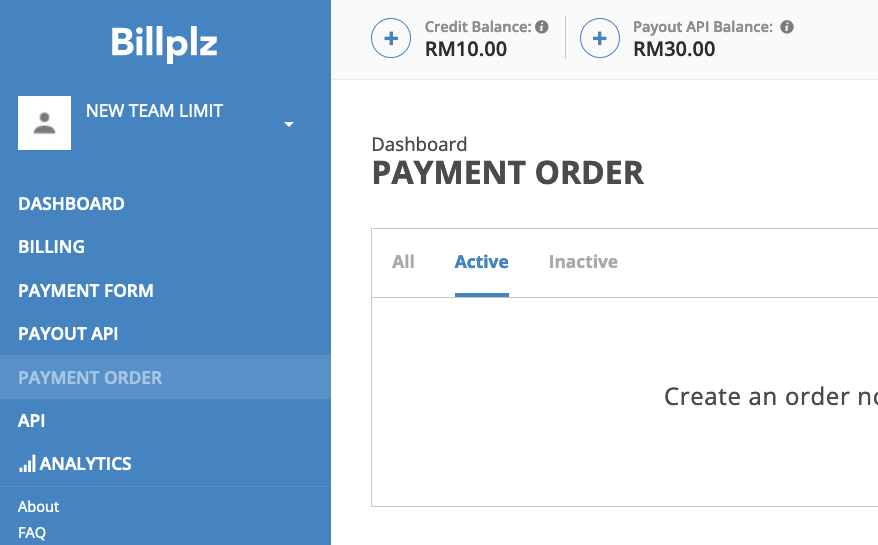
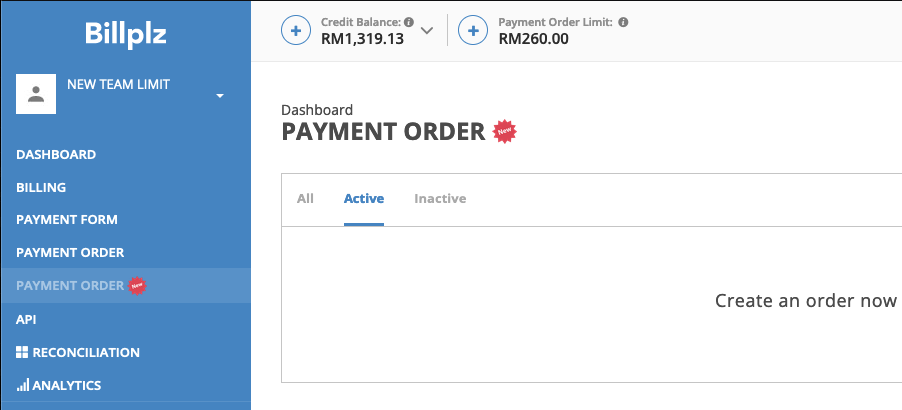
change to PO limit img and remove payout xsignature doc

diff --git a/source/index.html.md b/source/index.html.md
@@ -3493,210 +3493,6 @@ To verify that the request came from Billplz, compute the HMAC-SHA256 digest acc
 
 If they match, you can be sure that the redirection was sent from Billplz and the data has not been compromised, and you **do not need to trigger additional Get a Bill API for primary status validation**.
 
-## X Signature Payout API
-
-<aside class="warning">
-  Payout API is being sunsetted and will be discontinued on 10/05/2023, please configure your application to integrate with our Payment Order API instead <a href="#v5-payment-order-flow">[Payment Order]</a>
-</aside>
-
-X Signature Payout API allows your system to be notified in the event of the payout status change. This will ensure that your system can be hooked to perform an action in the event of payout status. The callback notification will be send when the status changed to `completed` or `refunded`.
-
-You are required to have this feature set-up if your system require an update on the payout status as <a href="#v4-payout-api-get-a-payout-api">Get a Payout API</a> is rate-limited.
-
-###### SERVER SIDE REQUEST
-
-If `callback_url` exists, Billplz will make a POST request with Payout object upon status change (`completed` or `refunded`).
-
-X Signature Callback URL request created through the API by Billplz can be verified by calculating a digital signature - `x_signature`.
-
-Each callback request includes a x_signature which is generated using HMAC-SHA256 algorithm and shared XSignature Key, along with the data sent in the request.
-
-To verify that the request came from Billplz, compute the HMAC-SHA256 digest according to the X Signature section and compare it to the value in the x_signature parameter. If they match, you can be sure that the callback was sent from Billplz and the data has not been compromised.
-
-A bill that catched payment failure will be in due state.
-
-<aside class="success">
-  By default, X Signature Callback URL feature is activated for account registered starting September 2018.
-</aside>
-
-> Example Server Side Request from Billplz:
-
-```
-POST /webhook/ HTTP/1.1
-Connection: close
-Host: 127.0.0.1
-Content-Length: 346
-Content-Type: application/x-www-form-urlencoded
-
-  id="bdejmycg"
-  &mass_payment_instruction_collection_id="bbk2nh77"
-  &bank_code="CIBBMYKL"
-  &bank_account_number="9230248"
-  &identity_number="PC0011H"
-  &name="Michae Yap"
-  &description="Maecenas eu placerat ante."
-  &email="api@billplz.com"
-  &status="completed"
-  &notification="false"
-  &recipient_notification="true"
-  &reference_id=""
-  &total="1"
-  &paid_at="02/08/2021"
[1 lines of base64/hex data omitted]
-```
-
-> Body formatted for readability.
-
-###### HTTP REQUEST
-
-`POST {CALLBACK_URL}`
-
-###### POST PARAMETER
-
-| Parameter | Description |
-| --- | --- |
-| id | ID that represents payout. |
-| mass_payment_instruction_collection_id | The Payout API collection's title in string format. |
-| bank_code | Bank Code that represents bank, in string value. |
-| bank_account_number | Bank account number, in string value. |
-| identity_number | Bank account's IC Number/SSM Registration Number, in string value. |
-| name | Payout API's recipient name. |
-| description | The Payout API's description. |
-| email | The email address of recipient. |
-| status | Payout API status. It is either `processing` or `completed` or `refunded` or `cancelled`. |
-| notification | Boolean value. |
-| recipient_notification | Boolean value. |
-| reference_id | Payout API's reference ID. Useful for identification on recipient part. |
-| total | Total amount transfer to the recipient. A positive integer in the smallest currency unit (e.g 100 cents to charge RM 1.00). |
-| paid_at | Date time when the bill was paid, in format `DD/MM/YYYY`. Example, `02/08/2021` |
-
-Callback request will be timeout in 20 seconds.
-
-Billplz server also expecting the end point server responds with status code of 200.
-
-In a case of either the end point server does not able to respond within the limit seconds (20 secs) or does not respond with 200 status code, the callback will consider as failure.
-
-On failure, the job is rescheduled for 2nd attempt in `15 seconds + (random 0-300 seconds)`, while 3rd and 4th attempts will rescheduled at `15 minutes + (random 0-300 seconds)`. The 5th (last) attempt will be `24 hours + random (0-300 seconds)` after 4th attempt.
-
-Assuming the 1st callback is initiated at 13:00:00. The 2nd attempt will be at 13:00:15 + N seconds. The 3rd attempt will be at 13:15:15 + N seconds. The 4th attempt will be at 13:30:15 + N seconds. The fifth attempt will be at 13:30:15+ N seconds next day.
-
-Billplz will attempt for maximum of 5 times and the callback will be removed from the system queue permanently after that.
-
-###### SAMPLE HTTP REQUEST FROM X SIGNATURE CALLBACK URL FEATURE
-
-`POST {CALLBACK_URL}`
-
-with POST body,
[1 lines of base64/hex data omitted]
-
-###### \#1 Extract all key-value pair parameters except x_signature.
-
-`id="bdejmycg"`
-
-`mass_payment_instruction_collection_id="bbk2nh77" `
-
-`bank_code="CIBBMYKL"`
-
-`bank_account_number="9230248"`
-
-`identity_number="PC0011H"`
-
-`name="Michae Yap"`
-
-`description="Maecenas eu placerat ante."`
-
-`email="api@billplz.com"`
-
-`status="completed"`
-
-`notification="false"`
-
-`recipient_notification="true"`
-
-`reference_id=""`
-
-`total="1"`
-
-`paid_at="02/08/2021"`
-
-###### \#2 Construct source string from each key-value pair parameters above.
-
-`idbdejmycg`
-
-`mass_payment_instruction_collection_idbbk2nh77`
-
-`bank_codeCIBBMYKL`
-
-`bank_account_number9230248`
-
-`identity_numberPC0011H`
-
-`nameMichae Yap`
-
-`descriptionMaecenas eu placerat ante.`
-
-`emailapi@billplz.com`
-
-`statuscompleted`
-
-`notificationfalse`
-
-`recipient_notificationtrue`
-
-`reference_id`
-
-`total1`
-
-`paid_at="02/08/2021`
-
-###### \#3 Sort in ascending order, case-insensitive.
-
-`bank_account_number9230248`
-
-`bank_codeCIBBMYKL`
-
-`descriptionMaecenas eu placerat ante.`
-
-`emailapi@billplz.com`
-
-`idediomtyu`
-
-`identity_numberPC0011H`
-
-`mass_payment_instruction_collection_idbbk2nh77`
-
-`nameMichael Yap`
-
-`notificationfalse`
-
-`paid_at02/08/2021`
-
-`recipient_notificationtrue`
-
-`reference_id`
-
-`statuscompleted`
-
-`total1`
-
-###### \#4 Combine sorted source strings with "|" (pipe) character in between.
-
-`bank_account_number9230248|bank_codeCIBBMYKL|descriptionMaecenas eu placerat ante.|emailapi@billplz.com|idediomtyu|identity_numberPC0011H|mass_payment_instruction_collection_idbbk2nh77|nameMichael Yap|notificationfalse|paid_at02/08/2021|recipient_notificationtrue|reference_id|statuscompleted|total1`
-
-###### \#5 Compute x_signature by signing the final source in #4 using HMAC_SHA256 and the sample XSignature Key.
-
-`S-R5t3Uw6SrwXNWyZV-naVHg`
-
[1 lines of base64/hex data omitted]
-
-###### \#6 Compare the computed x_signature with the x_signature passed in the request.
-
-If they match, you can be sure that the callback was sent from Billplz and the data has not been compromised, and you **do not need to trigger additional Get a Payout API for primary status validation**.
-
-<aside class="warning">
-  YOUR ACCOUNT RANK WILL BE DEGRADED BY 1 FOR EVERY UNSUCCESSFUL ATTEMPT OF CALLBACK AND WILL RESULT TO LOWER SCHEDULING PRIORITY FOR THE CALLBACK TO BE EXECUTED FOR YOUR ACCOUNT.
-</aside>
-
 ## Payment Order Callback
 
 Payment order callbacks allows your system to be notified in the event of the payment order status change. This will ensure that your system can be hooked to perform an action in the event of payment order status. The callback notification will be send when the status changed to `completed` or `refunded`.
